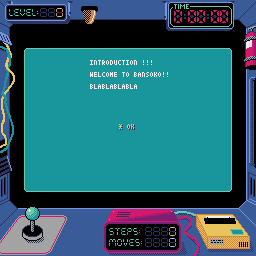
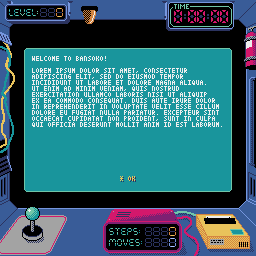
Update screen shot

Changed region(s): [[0.125, 0.2188, 0.875, 0.5312], [0.4688, 0.6875, 0.5312, 0.7188]]

diff --git a/bansoko/game/screens/introduction.py b/bansoko/game/screens/introduction.py
@@ -4,6 +4,7 @@ import pyxel
 
 from bansoko.game.screens.screen_factory import ScreenFactory
 from bansoko.gui.menu import MenuScreen, TextMenuItem, Menu
+from graphics import Point
 
 
 class IntroductionScreen(MenuScreen):
@@ -16,10 +17,20 @@ class IntroductionScreen(MenuScreen):
         bundle = screen_factory.get_bundle()
         menu = Menu.with_defaults(tuple([
             TextMenuItem("OK", lambda: None)
-        ]))
+        ]), position=Point(120, 176))
         super().__init__(menu=menu, background=bundle.get_background("introduction"),
                          semi_transparent=True, allow_going_back=True)
 
     def draw(self, draw_as_secondary: bool = False) -> None:
         super().draw(draw_as_secondary)
-        pyxel.text(90, 60, "INTRODUCTION !!!\n\nWELCOME TO BANSOKO!!\n\nBLABLABLABLA", 7)
+        pyxel.text(32, 56, "WELCOME TO BANSOKO!\n\n"
+                           "LOREM IPSUM DOLOR SIT AMET, CONSECTETUR\n"
+                           "ADIPISCING ELIT, SED DO EIUSMOD TEMPOR\n"
+                           "INCIDIDUNT UT LABORE ET DOLORE MAGNA ALIQUA.\n"
+                           "UT ENIM AD MINIM VENIAM, QUIS NOSTRUD\n"
+                           "EXERCITATION ULLAMCO LABORIS NISI UT ALIQUIP\n"
+                           "EX EA COMMODO CONSEQUAT. DUIS AUTE IRURE DOLOR\n"
+                           "IN REPREHENDERIT IN VOLUPTATE VELIT ESSE CILLUM\n"
+                           "DOLORE EU FUGIAT NULLA PARIATUR. EXCEPTEUR SINT\n"
+                           "OCCAECAT CUPIDATAT NON PROIDENT, SUNT IN CULPA\n"
+                           "QUI OFFICIA DESERUNT MOLLIT ANIM ID EST LABORUM.", 7)

diff --git a/bansoko/game/screens/main_menu.py b/bansoko/game/screens/main_menu.py
@@ -25,4 +25,4 @@ class MainMenuScreen(MenuScreen):
 
     def draw(self, draw_as_secondary: bool = False) -> None:
         super().draw(draw_as_secondary)
-        draw_text(Point(80, 240), "(c) 2020 KRZYSZTOF FURTAK", TextStyle(color=7, shadow_color=1))
+        draw_text(Point(79, 240), "(c) 2020 KRZYSZTOF FURTAK", TextStyle(color=7, shadow_color=1))

diff --git a/README.md b/README.md
@@ -4,7 +4,9 @@
 [![](https://img.shields.io/github/pipenv/locked/python-version/kfurtak1024/bansoko)]()
 -----------------
 
-Space-themed Sokoban clone created in Python using [Pyxel](https://github.com/kitao/pyxel).
+**Bansoko** is a space-themed Sokoban clone created in Python using [Pyxel](https://github.com/kitao/pyxel).
+
+> Game story introduction - TBD
 
 ![Alt text](docs/screen_shot1.png) ![Alt text](docs/screen_shot2.png) ![Alt text](docs/screen_shot3.png)
 ![Alt text](docs/screen_shot4.png) ![Alt text](docs/screen_shot5.png) ![Alt text](docs/screen_shot6.png)
